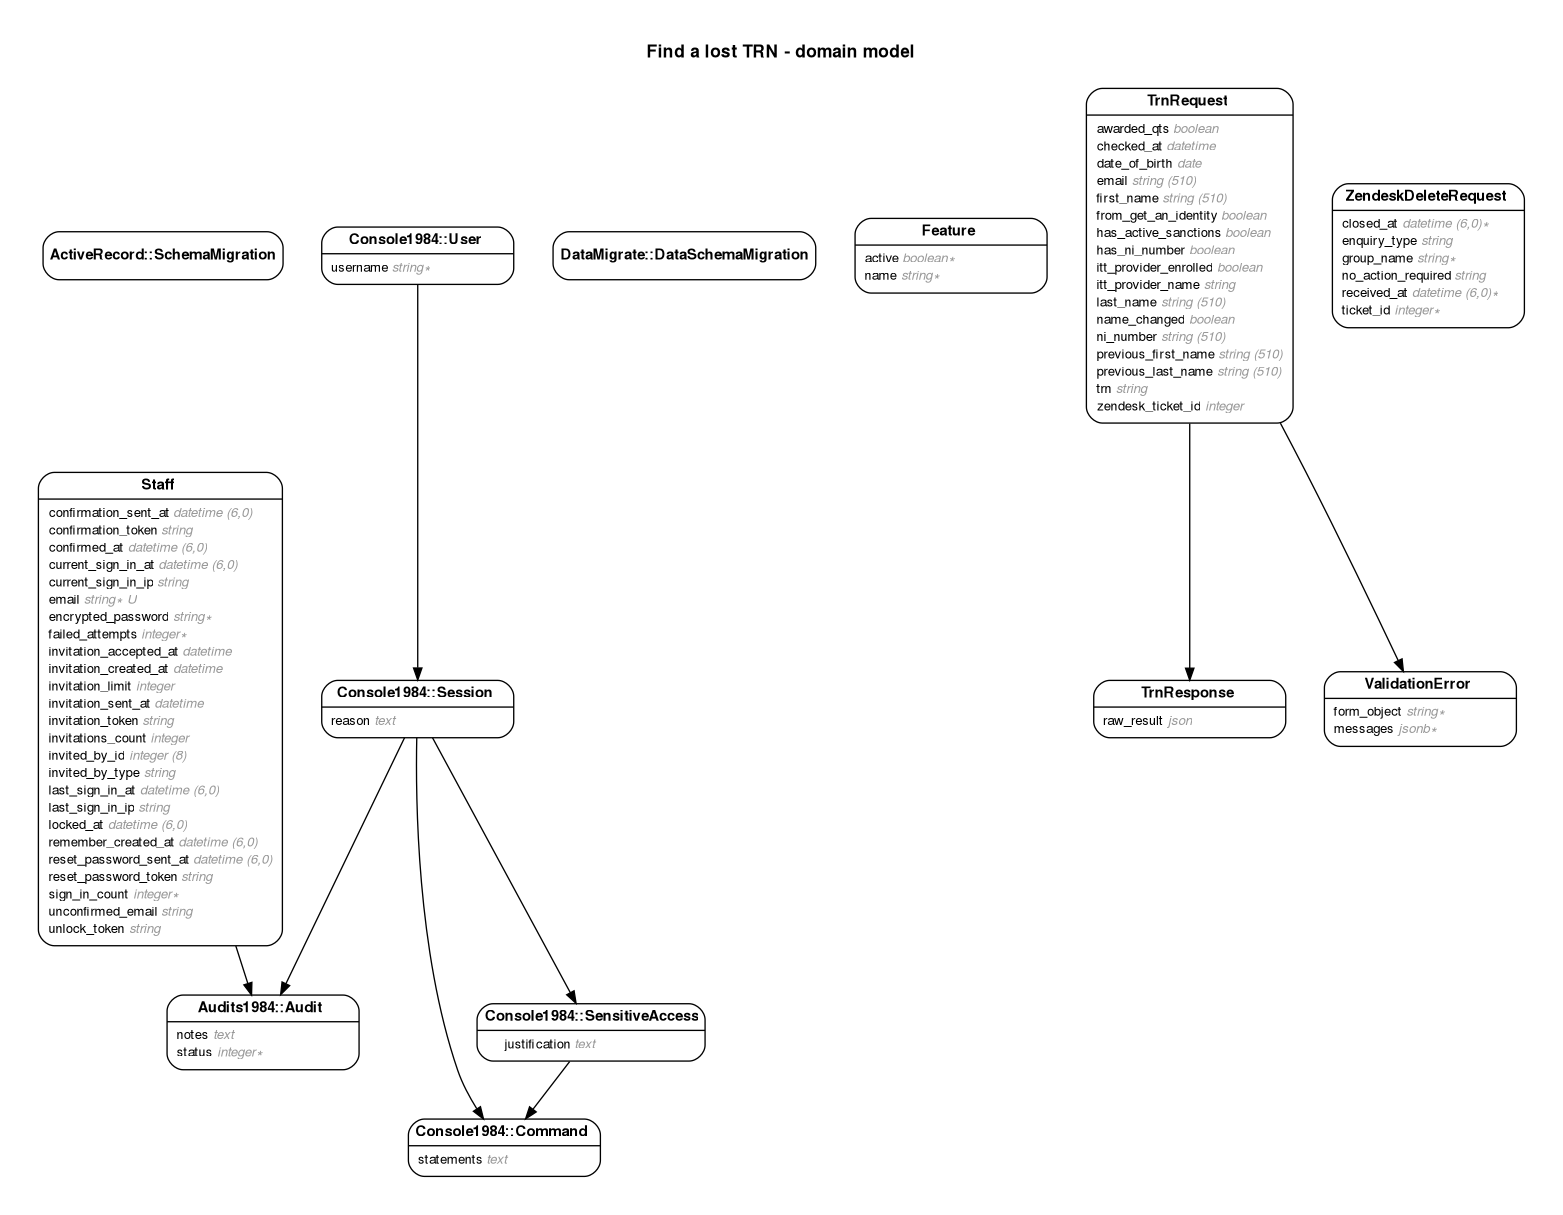
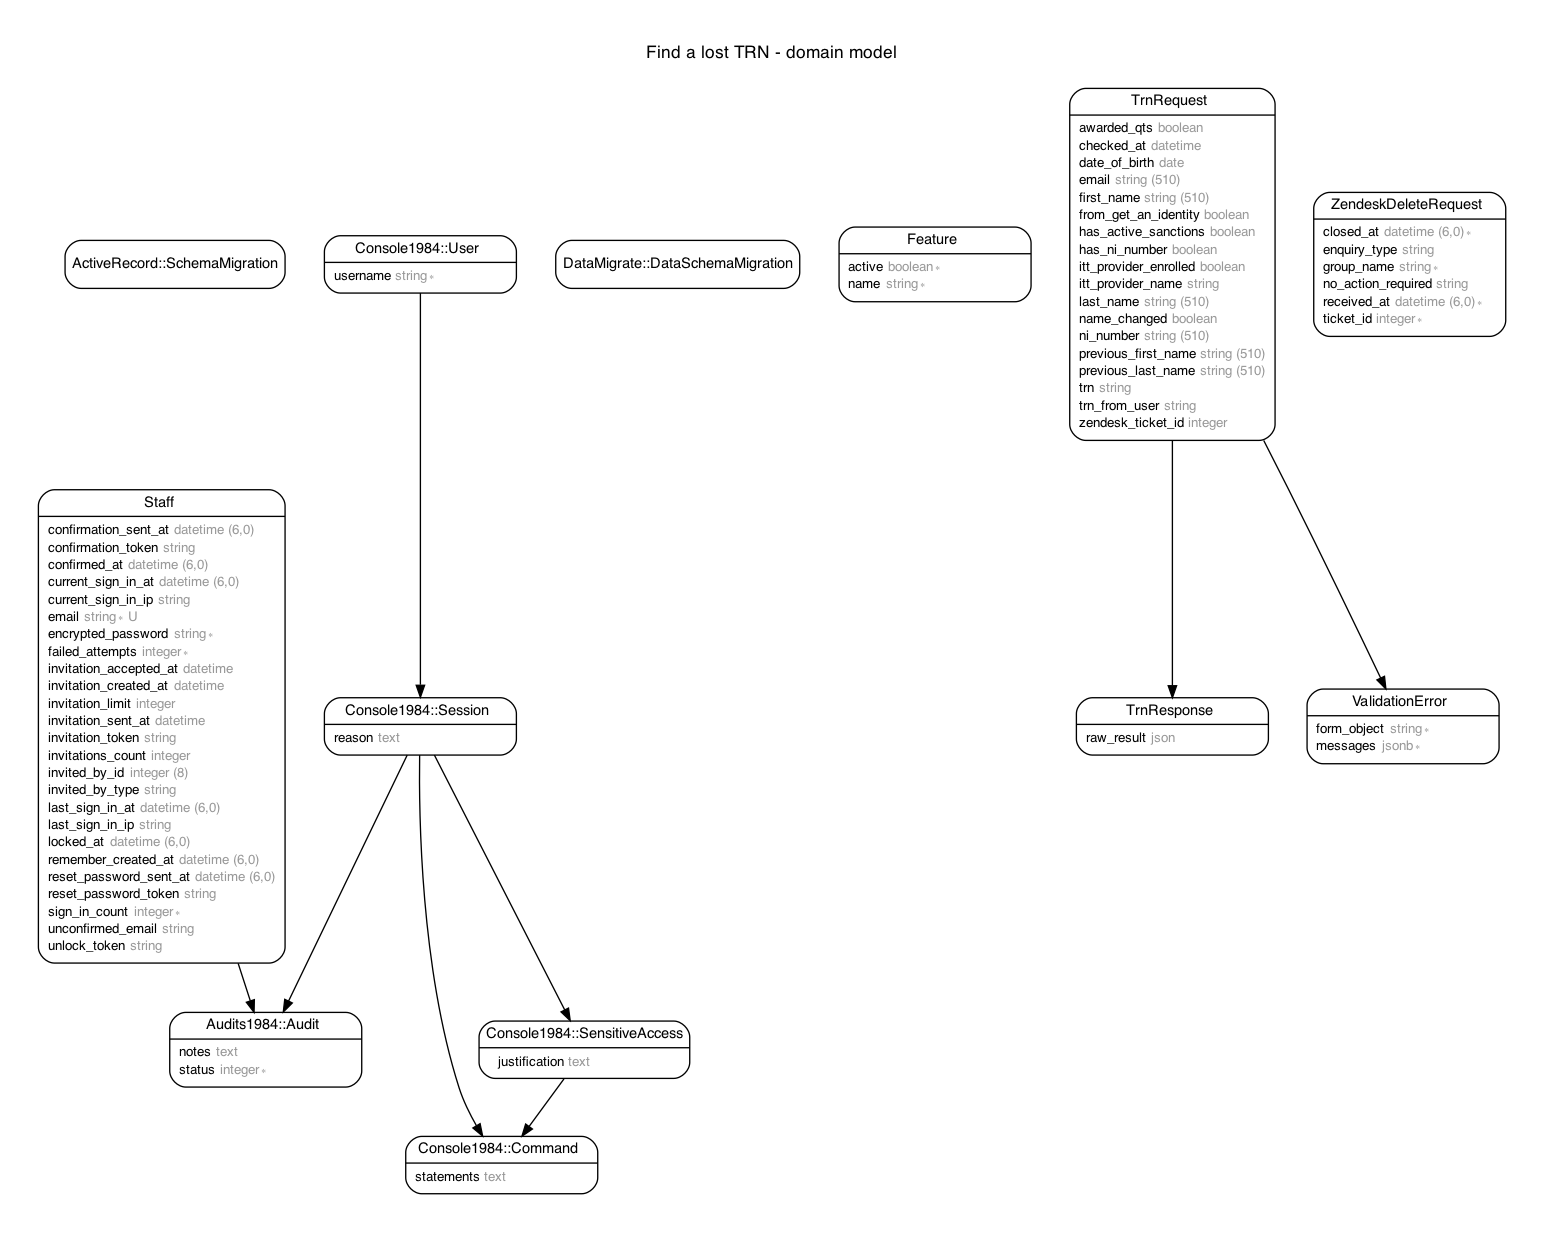
Ask for TRN + Check Answers
- ask_for_trn feature flag
- Added Route for ask-trn new and create actions
- Added ask for TRN controller
- Added column for trn_from_user to migration
- Created ask for TRN form component
- Updated question order enforcement to include ask for TRN if flag is enabled
- Added error states for validation messages in en.yml
- Added ask for TRN form test specs
- Updated awarded QTS page to navigate back to ask for TRN is flag is enabled
- Updated domain model
- Updated logic to factor in open design questions that were answered

diff --git a/spec/forms/ask_trn_form_spec.rb b/spec/forms/ask_trn_form_spec.rb
@@ -1,0 +1,116 @@
+# frozen_string_literal: true
+require "rails_helper"
+
+RSpec.describe AskTrnForm, type: :model do
+  it do
+    is_expected.to validate_inclusion_of(:do_you_know_your_trn).in_array(
+      %w[true false]
+    )
+  end
+
+  describe "#update" do
+    before { FeatureFlag.activate(:ask_for_trn) }
+    after { FeatureFlag.deactivate(:ask_for_trn) }
+    subject(:update!) { ask_trn_form.update(params) }
+
+    let(:ask_trn_form) { described_class.new(trn_request:) }
+    let(:trn_request) { TrnRequest.new }
+    let(:params) { { do_you_know_your_trn:, trn_from_user: } }
+    let(:do_you_know_your_trn) { "true" }
+    let(:trn_from_user) { "RP99/12345" }
+
+    it "passes validation" do
+      is_expected.to be_truthy
+    end
+    it "updates the trn_from_user attribute on the trn_request" do
+      expect { update! }.to change(trn_request, :trn_from_user).from(nil).to(
+        "9912345"
+      )
+    end
+
+    context "when no option is selected" do
+      let(:params) { { trn_from_user: } }
+      let(:trn_from_user) { "" }
+
+      it "fails validation" do
+        is_expected.to be_falsy
+      end
+      it "adds an error" do
+        update!
+        expect(ask_trn_form.errors[:do_you_know_your_trn]).to eq(
+          ["Tell us if you know your TRN number"]
+        )
+      end
+      it "logs a validation error" do
+        expect { update! }.to change(ValidationError, :count).by(1)
+      end
+    end
+
+    context "when I want to continue without my TRN" do
+      let(:do_you_know_your_trn) { "false" }
+      it "passes validation" do
+        is_expected.to be_truthy
+      end
+    end
+
+    context "when I know my TRN but submit an empty input" do
+      let(:trn_from_user) { "" }
+      it "fails validation" do
+        is_expected.to be_falsy
+      end
+      it "adds an error" do
+        update!
+        expect(ask_trn_form.errors[:trn_from_user]).to include(
+          "Enter your TRN number"
+        )
+      end
+      it "logs a validation error" do
+        expect { update! }.to change(ValidationError, :count).by(1)
+      end
+    end
+
+    context "when I know my TRN and submit a TRN less than 7 digits" do
+      let(:trn_from_user) { "RP99/123" }
+      it "fails validation" do
+        is_expected.to be_falsy
+      end
+      it "adds an error" do
+        update!
+        expect(ask_trn_form.errors[:trn_from_user]).to eq(
+          ["Your TRN number should contain 7 digits"]
+        )
+      end
+      it "logs a validation error" do
+        expect { update! }.to change(ValidationError, :count).by(1)
+      end
+    end
+
+    context "when I know my TRN and submit a TRN more than 7 digits" do
+      let(:trn_from_user) { "RP99/123456" }
+      it "fails validation" do
+        is_expected.to be_falsy
+      end
+      it "adds an error" do
+        update!
+        expect(ask_trn_form.errors[:trn_from_user]).to eq(
+          ["Your TRN number should contain 7 digits"]
+        )
+      end
+      it "logs a validation error" do
+        expect { update! }.to change(ValidationError, :count).by(1)
+      end
+    end
+
+    context "when I know my TRN and it includes non numeric characters" do
+      let(:trn_from_user) { "RP/99-123-67" }
+      it "passes validation" do
+        is_expected.to be_truthy
+      end
+      it "strips all non numeric characters from the TRN" do
+        expect { update! }.to change(trn_request, :trn_from_user).from(nil).to(
+          "9912367"
+        )
+      end
+    end
+  end
+end

diff --git a/spec/system/trn_requests_spec.rb b/spec/system/trn_requests_spec.rb
@@ -538,6 +538,7 @@ RSpec.describe "TRN requests", type: :system do
   end
 
   def deactivate_feature_flags
+    FeatureFlag.deactivate(:ask_for_trn)
     FeatureFlag.deactivate(:processing_delays)
     FeatureFlag.deactivate(:service_open)
     FeatureFlag.deactivate(:use_dqt_api_itt_providers)
@@ -596,6 +597,26 @@ RSpec.describe "TRN requests", type: :system do
 
   def given_the_use_dqt_api_itt_providers_feature_is_enabled
     FeatureFlag.activate(:use_dqt_api_itt_providers)
+  end
+
+  def given_the_zendesk_integration_feature_is_enabled
+    FeatureFlag.activate(:zendesk_integration)
+  end
+
+  def given_the_match_on_email_feature_is_enabled
+    FeatureFlag.activate(:match_on_email)
+  end
+
+  def and_the_match_on_email_feature_is_disabled
+    FeatureFlag.deactivate(:match_on_email)
+  end
+
+  def given_the_ask_for_trn_feature_is_enabled
+    FeatureFlag.activate(:ask_for_trn)
+  end
+
+  def given_the_ask_for_trn_feature_is_disabled
+    FeatureFlag.deactivate(:ask_for_trn)
   end
 
   def given_the_zendesk_connection_is_unavailable

diff --git a/app/forms/ask_trn_form.rb b/app/forms/ask_trn_form.rb
@@ -1,0 +1,38 @@
+# frozen_string_literal: true
+class AskTrnForm
+  include ActiveModel::Model
+  include LogErrors
+
+  attr_accessor :do_you_know_your_trn, :trn_request
+
+  validates :do_you_know_your_trn, inclusion: { in: %w[true false] }
+  validates :trn_from_user,
+            presence: true,
+            length: {
+              is: 7
+            },
+            if: -> { do_you_know_your_trn == "true" }
+
+  delegate :trn_from_user, to: :trn_request, allow_nil: true
+
+  def update(params = {})
+    self.do_you_know_your_trn = params[:do_you_know_your_trn]
+    self.trn_from_user = params[:trn_from_user]
+    clear_trn_from_user unless do_you_know_your_trn == "true"
+
+    if invalid?
+      log_errors
+      return false
+    end
+
+    trn_request.save!
+  end
+
+  def trn_from_user=(value)
+    trn_request.trn_from_user = value&.delete("^0-9")
+  end
+
+  def clear_trn_from_user
+    trn_request.trn_from_user = nil
+  end
+end

diff --git a/app/controllers/concerns/enforce_question_order.rb b/app/controllers/concerns/enforce_question_order.rb
@@ -45,6 +45,7 @@ module EnforceQuestionOrder
       { path: date_of_birth_path, needs_answer: ask_for_date_of_birth? },
       { path: have_ni_number_path, needs_answer: ask_if_has_ni_number? },
       { path: ni_number_path, needs_answer: ask_for_ni_number? },
+      { path: ask_trn_path, needs_answer: ask_for_trn? },
       { path: awarded_qts_path, needs_answer: ask_if_awarded_qts? },
       { path: itt_provider_path, needs_answer: ask_for_itt_provider? }
     ]
@@ -93,6 +94,14 @@ module EnforceQuestionOrder
     return false if session[:ni_number_not_known]
 
     trn_request.has_ni_number && trn_request.ni_number.nil?
+  end
+
+  def ask_for_trn?
+    return false unless FeatureFlag.active?(:ask_for_trn)
+
+    return false if trn_request.trn || session[:user_knows_trn] == "false"
+
+    trn_request.trn_from_user.nil?
   end
 
   def ask_if_awarded_qts?

diff --git a/app/controllers/ask_trn_controller.rb b/app/controllers/ask_trn_controller.rb
@@ -1,0 +1,27 @@
+# frozen_string_literal: true
+class AskTrnController < ApplicationController
+  include EnforceQuestionOrder
+
+  layout "two_thirds"
+
+  def new
+    @ask_trn_form = AskTrnForm.new(trn_request:)
+    @ask_trn_form.do_you_know_your_trn = session[:user_knows_trn]
+  end
+
+  def create
+    @ask_trn_form = AskTrnForm.new(trn_request:)
+    if @ask_trn_form.update(trn_params)
+      session[:user_knows_trn] = trn_params.require(:do_you_know_your_trn)
+      next_question
+    else
+      render :new
+    end
+  end
+
+  private
+
+  def trn_params
+    params.require(:ask_trn_form).permit(:do_you_know_your_trn, :trn_from_user)
+  end
+end

diff --git a/app/models/trn_request.rb b/app/models/trn_request.rb
@@ -21,6 +21,7 @@
 #  previous_first_name   :string(510)
 #  previous_last_name    :string(510)
 #  trn                   :string
+#  trn_from_user         :string
 #  created_at            :datetime         not null
 #  updated_at            :datetime         not null
 #  zendesk_ticket_id     :integer

diff --git a/spec/models/trn_request_spec.rb b/spec/models/trn_request_spec.rb
@@ -21,6 +21,7 @@
 #  previous_first_name   :string(510)
 #  previous_last_name    :string(510)
 #  trn                   :string
+#  trn_from_user         :string
 #  created_at            :datetime         not null
 #  updated_at            :datetime         not null
 #  zendesk_ticket_id     :integer

diff --git a/db/schema.rb b/db/schema.rb
@@ -127,6 +127,7 @@ ActiveRecord::Schema[7.0].define(version: 2022_08_23_143016) do
     t.boolean "has_active_sanctions"
     t.boolean "name_changed"
     t.boolean "from_get_an_identity", default: false
+    t.string "trn_from_user"
   end
 
   create_table "trn_responses", force: :cascade do |t|

diff --git a/config/routes.rb b/config/routes.rb
@@ -96,6 +96,9 @@ Rails.application.routes.draw do
 
   post "/identity", to: "identity#create"
 
+  get "/ask-trn", to: "ask_trn#new"
+  post "/ask-trn", to: "ask_trn#create"
+
   scope via: :all do
     get "/404", to: "errors#not_found"
     get "/422", to: "errors#unprocessable_entity"

diff --git a/app/components/trn_details_component.rb b/app/components/trn_details_component.rb
@@ -91,4 +91,10 @@ class TrnDetailsComponent < ViewComponent::Base
       @trn_request.previous_name
     end
   end
+
+  def trn_from_user_value
+    return @trn_request.trn_from_user if session[:user_knows_trn] == "true"
+
+    "I don’t know my TRN"
+  end
 end

diff --git a/db/migrate/20220816145427_add_trn_from_user_to_trn_requests.rb b/db/migrate/20220816145427_add_trn_from_user_to_trn_requests.rb
@@ -1,0 +1,5 @@
+class AddTrnFromUserToTrnRequests < ActiveRecord::Migration[7.0]
+  def change
+    add_column :trn_requests, :trn_from_user, :string
+  end
+end
